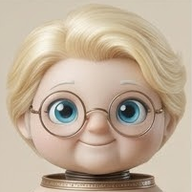
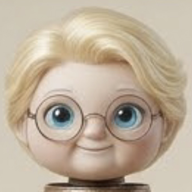
Leda: imagem oficial (Leda sentada) no lugar das provisórias
Imagem enviada pelo Leandro em 12/11/2026. Rosto na página /leda,
rosto e peito na entrada da conversa, corpo inteiro na tela da conversa
e nos ícones de /leda-conversa e /leda-lite.

Claude-Session: https://claude.ai/code/session_0171AD1rzMNf6d3akX938nb1

diff --git a/leda-conversa/index.html b/leda-conversa/index.html
@@ -16,7 +16,7 @@
 </head>
 <body>
   <section id="gate" class="gate-screen" aria-label="Acordar a Leda">
-    <img class="gate-avatar" src="leda-avatar.jpg" alt="Leda, a robozinha assistente da VINCI, sorrindo">
+    <img class="gate-avatar" src="leda-avatar.jpg?v=2" alt="Leda, a robozinha assistente da VINCI, sorrindo">
     <div class="gate-form">
       <div class="gate-title"><b>LEDA</b><small>ASSISTENTE DA CASA · VINCI</small></div>
       <form id="pw-form" class="pw-form" autocomplete="on">
@@ -41,7 +41,7 @@
       <section class="stage" aria-labelledby="leda-title">
         <div class="stage-heading"><span class="kicker">LEDA</span><span class="stage-tag">01 / ASSISTENTE</span></div>
         <div class="portrait-wrap">
-          <div class="halo"></div><img class="portrait" src="leda-corpo.jpg" alt="Leda acenando, com o nome LEDA na telinha do peito">
+          <div class="halo"></div><img class="portrait" src="leda-corpo.jpg?v=2" alt="Leda acenando, com o nome LEDA na telinha do peito">
           <div class="portrait-glow"></div>
         </div>
         <div class="stage-bottom">

diff --git a/leda-lite/index.html b/leda-lite/index.html
@@ -16,7 +16,7 @@
 </head>
 <body>
   <section id="gate" class="gate-screen" aria-label="Acordar a Leda">
-    <img class="gate-avatar" src="leda-avatar.jpg" alt="Leda, a robozinha assistente da VINCI, sorrindo">
+    <img class="gate-avatar" src="leda-avatar.jpg?v=2" alt="Leda, a robozinha assistente da VINCI, sorrindo">
     <div class="gate-form">
       <div class="gate-title"><b>LEDA LITE</b><small>ASSISTENTE DA CASA · VINCI</small></div>
       <form id="pw-form" class="pw-form" autocomplete="on">
@@ -41,7 +41,7 @@
       <section class="stage" aria-labelledby="leda-title">
         <div class="stage-heading"><span class="kicker">LEDA</span><span class="stage-tag">01 / LITE</span></div>
         <div class="portrait-wrap">
-          <div class="halo"></div><img class="portrait" src="leda-corpo.jpg" alt="Leda acenando, com o nome LEDA na telinha do peito">
+          <div class="halo"></div><img class="portrait" src="leda-corpo.jpg?v=2" alt="Leda acenando, com o nome LEDA na telinha do peito">
           <div class="portrait-glow"></div>
         </div>
         <div class="stage-bottom">

diff --git a/leda/index.html b/leda/index.html
@@ -210,7 +210,7 @@ footer a { color: var(--muted); }
 <body>
 
 
-<svg width="0" height="0" style="position:absolute" aria-hidden="true"><defs><clipPath id="av-clip"><circle cx="100" cy="100" r="94"/></clipPath></defs><symbol id="av" viewBox="0 0 200 200"><circle cx="100" cy="100" r="96" fill="#e9e0d2"/><image href="/leda/leda-rosto.jpg" x="0" y="0" width="200" height="200" preserveAspectRatio="xMidYMid slice" clip-path="url(#av-clip)"/><circle cx="100" cy="100" r="96" fill="none" stroke="#8fd3ff" stroke-width="5"/></symbol></svg>
+<svg width="0" height="0" style="position:absolute" aria-hidden="true"><defs><clipPath id="av-clip"><circle cx="100" cy="100" r="94"/></clipPath></defs><symbol id="av" viewBox="0 0 200 200"><circle cx="100" cy="100" r="96" fill="#e9e0d2"/><image href="/leda/leda-rosto.jpg?v=2" x="0" y="0" width="200" height="200" preserveAspectRatio="xMidYMid slice" clip-path="url(#av-clip)"/><circle cx="100" cy="100" r="96" fill="none" stroke="#8fd3ff" stroke-width="5"/></symbol></svg>
 
 <header class="top">
   <div class="wrap">

diff --git a/leda-conversa/sw.js b/leda-conversa/sw.js
@@ -1,6 +1,6 @@
 // Leda: guarda a página e a biblioteca para abrir sem internet.
 // O modelo em si fica no cache próprio do WebLLM (baixado uma vez, do Hugging Face).
-const CACHE = "leda-conversa-v1";
+const CACHE = "leda-conversa-v2";
 const SHELL = [
   "./", "index.html", "style.css?v=l-1", "app.js?v=l-1", "worker.js",
   "vendor/web-llm-0.2.86.js", "leda-avatar.jpg", "leda-corpo.jpg", "icon-192.png", "icon-512.png", "manifest.webmanifest",

diff --git a/leda-lite/sw.js b/leda-lite/sw.js
@@ -1,6 +1,6 @@
 // Leda: guarda a página e a biblioteca para abrir sem internet.
 // O modelo em si fica no cache próprio do WebLLM (baixado uma vez, do Hugging Face).
-const CACHE = "leda-lite-v1";
+const CACHE = "leda-lite-v2";
 const SHELL = [
   "./", "index.html", "style.css?v=l-1", "app.js?v=l-1", "worker.js",
   "vendor/web-llm-0.2.86.js", "leda-avatar.jpg", "leda-corpo.jpg", "icon-192.png", "icon-512.png", "manifest.webmanifest",
